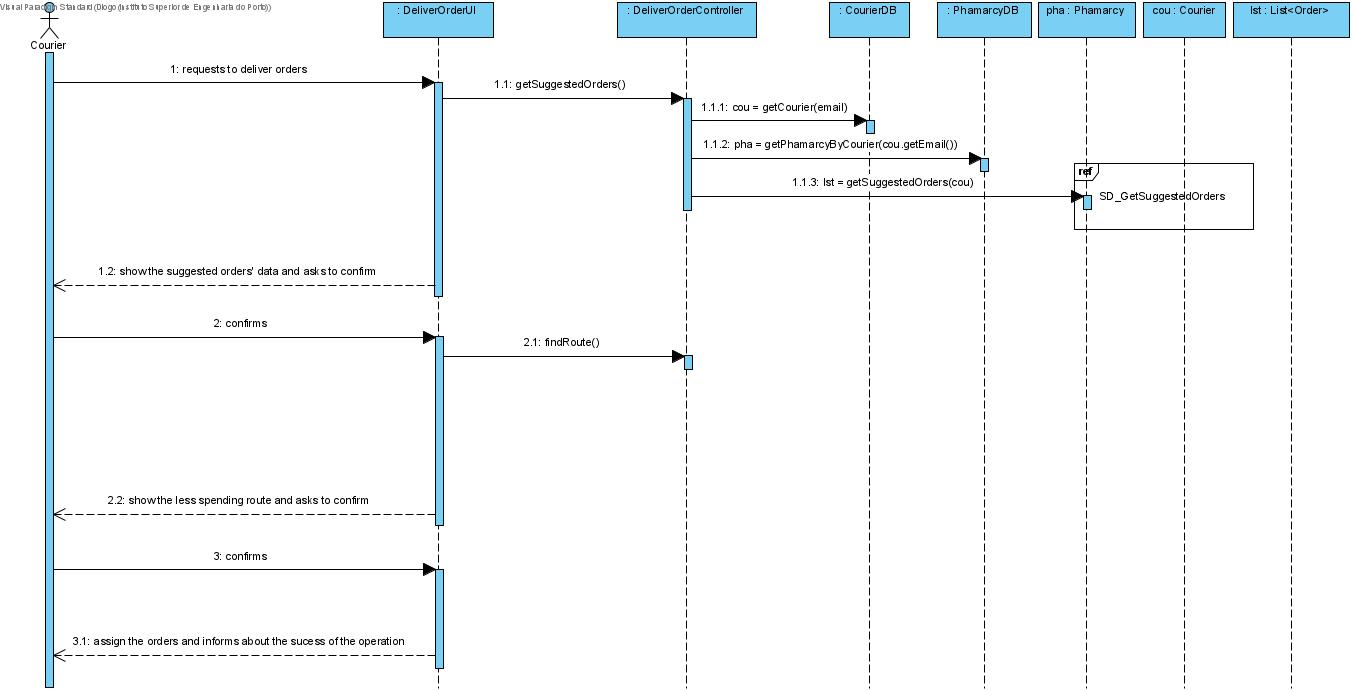
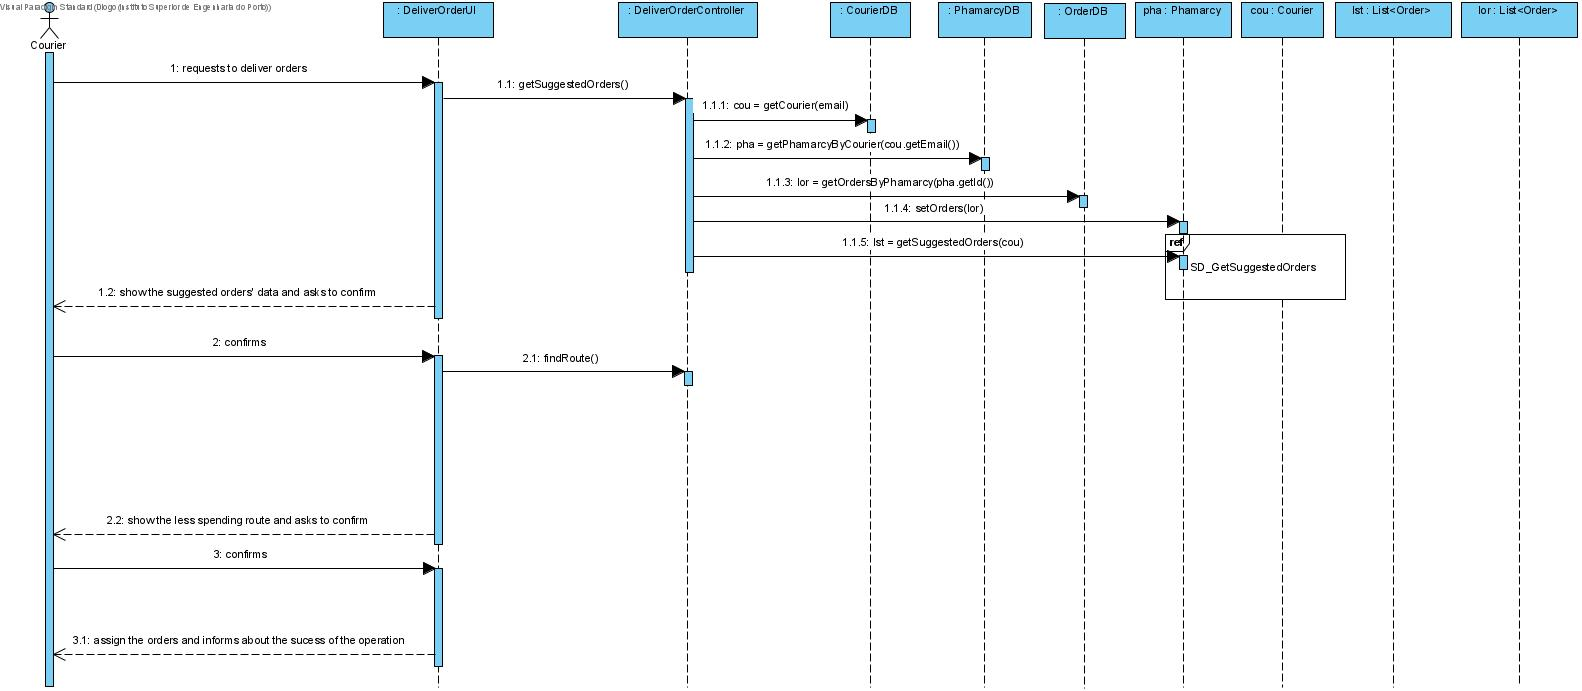
MEN09-222 #close Deliver Order [Implementation]

diff --git a/src/main/java/lapr/project/data/OrderDB.java b/src/main/java/lapr/project/data/OrderDB.java
@@ -9,10 +9,10 @@ import java.sql.CallableStatement;
 import java.sql.ResultSet;
 import java.sql.SQLException;
 import java.util.ArrayList;
-import java.util.HashSet;
 import java.util.List;
+import java.util.Set;
+import java.util.TreeSet;
 import lapr.project.model.Order;
-import lapr.project.model.Product;
 import oracle.jdbc.OracleTypes;
 
 /**
@@ -30,7 +30,7 @@ public class OrderDB extends DataHandler{
             callStmt.execute();
             ResultSet rs = (ResultSet) callStmt.getObject(1);
             while (rs.next()) {
-                Order o = new Order(rs.getInt(1), rs.getTimestamp(2), rs.getTimestamp(3), rs.getString(4), rs.getFloat(5), new HashSet<Product>());
+                Order o = new Order(rs.getInt(1), rs.getTimestamp(2), rs.getTimestamp(3), rs.getString(4), rs.getFloat(5));
                 listOrders.add(o);
             }
         }
@@ -48,7 +48,7 @@ public class OrderDB extends DataHandler{
             callStmt.execute();
             ResultSet rs = (ResultSet) callStmt.getObject(1);
             while (rs.next()) {
-                o = new Order(rs.getInt(1), rs.getTimestamp(2), rs.getTimestamp(3), rs.getString(4), rs.getFloat(5), new HashSet<Product>());
+                o = new Order(rs.getInt(1), rs.getTimestamp(2), rs.getTimestamp(3), rs.getString(4), rs.getFloat(5));
                 return o;
             }
             throw new IllegalArgumentException("Product does not exist");
@@ -62,6 +62,21 @@ public class OrderDB extends DataHandler{
               callStmt.setInt(3, idPhamarcy);
               callStmt.execute();
         }
+    }
+
+    public Set<Order> getOrdersByPhamarcy(int idPhamarcy) throws SQLException {
+        Set<Order> listOrders = new TreeSet<>();
+        try (CallableStatement callStmt = getConnection().prepareCall("{ ? = call funcGetOrdersByPhamarcy(?) }")) {
+            callStmt.registerOutParameter(1, OracleTypes.CURSOR);
+            callStmt.setInt(2, idPhamarcy);
+            callStmt.execute();
+            ResultSet rs = (ResultSet) callStmt.getObject(1);
+            while (rs.next()) {
+                Order o = new Order(rs.getInt(1), rs.getTimestamp(2), rs.getTimestamp(3), rs.getString(4), rs.getFloat(5));
+                listOrders.add(o);
+            }
+        }
+        return listOrders;
     }
 
     

diff --git a/src/main/java/lapr/project/controller/DeliverOrderController.java b/src/main/java/lapr/project/controller/DeliverOrderController.java
@@ -10,6 +10,7 @@ import java.util.ArrayList;
 import java.util.LinkedList;
 import java.util.List;
 import lapr.project.data.CourierDB;
+import lapr.project.data.OrderDB;
 import lapr.project.data.PhamarcyDB;
 import lapr.project.model.Courier;
 import lapr.project.model.Order;
@@ -23,13 +24,15 @@ public class DeliverOrderController {
     
     private CourierDB cdb;
     private PhamarcyDB pdb;
+    private OrderDB odb;
     private String courierEmail;
     private Courier cou;
     private Phamarcy pha;
 
-    public DeliverOrderController( String courierEmail) {
+    public DeliverOrderController(String courierEmail) {
         this.cdb = new CourierDB();
         this.pdb = new PhamarcyDB();
+        this.odb = new OrderDB();
         this.courierEmail = courierEmail;
     }
     
@@ -37,6 +40,7 @@ public class DeliverOrderController {
         List<String> orders = new ArrayList<>();
         cou = cdb.getCourier(courierEmail);
         pha = pdb.getPhamarcyByCourier(cou.getEmail());
+        pha.setOrders(odb.getOrdersByPhamarcy(pha.getId()));
         for(Order o : pha.getSuggestedOrders(cou)){
             orders.add(o.toString());
         }

diff --git a/src/main/java/lapr/project/model/Phamarcy.java b/src/main/java/lapr/project/model/Phamarcy.java
@@ -105,9 +105,10 @@ public class Phamarcy {
         this.parks = parks;
     }
 
-
-
-
+    public void setOrders(Set<Order> orders) {
+        this.orders = orders;
+    }
+    
     @Override
     public int hashCode() {
         int hash = 3;
@@ -143,10 +144,12 @@ public class Phamarcy {
         List<Order> sOrders = new ArrayList<>();
         double totalWeight = 0;
         for(Order o : orders){
-            double expWeight = totalWeight + o.getTotalWeight();
-            if(expWeight < cou.getMaxWeight()){
-                sOrders.add(o);
-                totalWeight = expWeight;
+            if(o.getStatus().equals("Prepared")){
+                double expWeight = totalWeight + o.getTotalWeight();
+                if(expWeight < cou.getMaxWeight()){
+                    sOrders.add(o);
+                    totalWeight = expWeight;
+                }
             }
         }
         

diff --git a/src/main/java/lapr/project/model/Order.java b/src/main/java/lapr/project/model/Order.java
@@ -36,12 +36,38 @@ public class Order implements Comparable<Order>{
         this.products = products;
     }
     
+    public Order(int id, Date beginDate, Date endDate, String status, float price) {
+        this.id = id;
+        this.beginDate = beginDate;
+        this.endDate = endDate;
+        this.status = status;
+        this.price = price;
+        this.products = new HashSet<>();
+        
+    }
     
-
-
-
     public int getId() {
         return id;
+    }
+
+    public Date getBeginDate() {
+        return beginDate;
+    }
+
+    public Date getEndDate() {
+        return endDate;
+    }
+
+    public float getPrice() {
+        return price;
+    }
+    
+    public String getStatus() {
+        return status;
+    }
+
+    public HashSet<Product> getProducts() {
+        return products;
     }
     
     public double getTotalWeight(){
